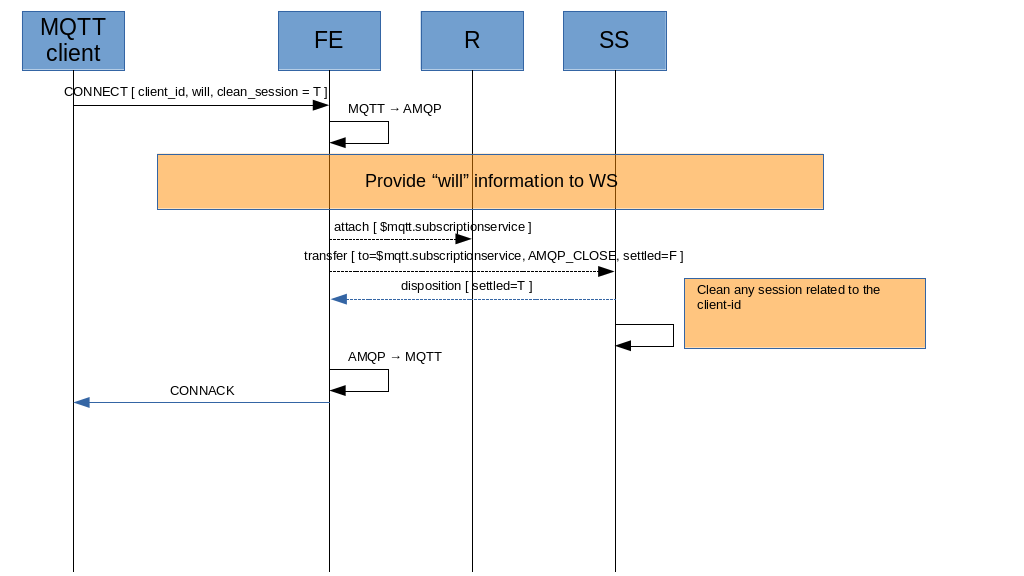
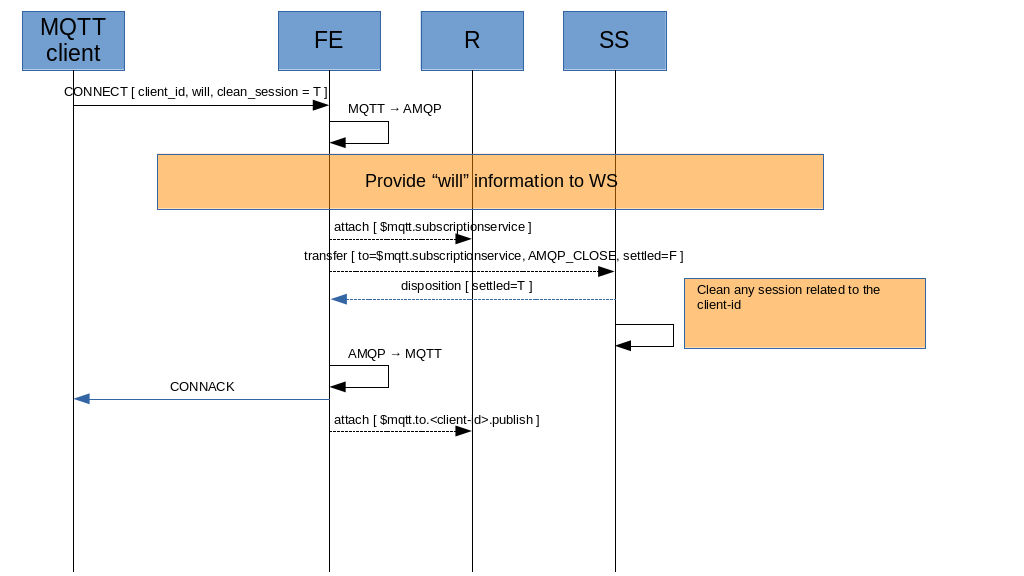
Modified spec with two different client unique addresses for receiving control messages (i.e. from SS) and published messages (i.e. through router from broker)

Changed region(s): [[0.0625, 0.6562, 0.3125, 0.7188], [0.3125, 0.7188, 0.5312, 0.75], [0.3125, 0.5938, 0.4375, 0.6875]]

diff --git a/mqtt-over-amqp/docs/operations_connection.md b/mqtt-over-amqp/docs/operations_connection.md
@@ -12,12 +12,20 @@ The FE needs to attach a link with sender role to the Subscription Service contr
 * rcv-settle-mode : first (0)
 * snd-settle-mode : unsettled (0)
 
-The FE needs to attach a link with receiver role to the unique client address $mqtt.to.[client-id]. It should have QoS as AT_LEAST_ONCE so with :
+The FE needs to attach a link with receiver role to the unique client control address $mqtt.to.[client-id].control. It should have QoS as AT_LEAST_ONCE so with :
+
+* rcv-settle-mode : first (0)
+* snd-settle-mode : unsettled (0)
+
+This address is useful for receiving control messages (i.e. from the Subscription Service).
+
+The FE needs to attach a link with receiver role to the unique client publish address $mqtt.to.[client-id].publish. It should have QoS as AT_LEAST_ONCE so with :
 
 * rcv-settle-mode : first (0)
 * snd-settle-mode : unsettled (0)
 
 or using "mixed" (2) for the "snd-settle-mode", in order to allow the sender on the other side to send messages both "settle" and "unsettled" on the same link.
+This address is used for receiving published messages.
 
 ## "Will" information to Will Service
 
@@ -62,8 +70,8 @@ If the "clean session" from _CONNECT_ packet is FALSE.
 | DATA | TYPE | VALUE | FROM |
 | ---- | ---- | ----- | ---- |
 | subject | system property | "list" | - |
-| correlation-id | system property | $mqtt.to.[client-id] | - |
-| reply-to | system property | $mqtt.to.[client-id] | - |
+| correlation-id | system property | $mqtt.to.[client-id].publish | - |
+| reply-to | system property | $mqtt.to.[client-id].control | - |
 
 The _AMQP_LIST_ is sent as "unsettled", in order to know that the Subscription Service has received it (with related disposition).
 The relation between the _AMQP_LIST_ message and the related client, at AMQP level, is inferred by the link name attached to the SS control address.
@@ -83,7 +91,7 @@ After sending the _AMQP_LIST_, the FE receives the following message as reply.
 
 The _AMQP_SUBSCRIPTIONS_ is sent as "unsettled", in order to know that the FE has received it (with related disposition).
 
-If a session is present and there are subscriptions for the client-id, the SS re-establishes the routes from each topic to the $mqtt.to.[client-id] automatically (see “Subscription/Unsubscription”). No need for the SS to send subscriptions list to the FE in order to re-subscribe.
+If a session is present and there are subscriptions for the client-id, the SS re-establishes the routes from each topic to the $mqtt.to.[client-id].publish automatically (see “Subscription/Unsubscription”). No need for the SS to send subscriptions list to the FE in order to re-subscribe.
 
 > the SS should send the _AMQP_SUBSCRIPTIONS_ message to FE before re-establishing routes for the topics because it should be first message received by FE (in order to build the _CONNACK_) if there are messages stored when the client was offline that will be puslished now on re-connect.
 
@@ -98,7 +106,7 @@ If the "clean session" from _CONNECT_ packet is TRUE.
 | DATA | TYPE | VALUE | FROM |
 | ---- | ---- | ----- | ---- |
 | subject | system property | "close" | - |
-| correlation-id | system property | $mqtt.to.[client-id] | - |
+| correlation-id | system property | $mqtt.to.[client-id].publish | - |
 
 ![Connect Subscription Service](../images/05_connect_ss_close.png)
 

diff --git a/mqtt-over-amqp/docs/operations_subscription_unsubscription.md b/mqtt-over-amqp/docs/operations_subscription_unsubscription.md
@@ -9,13 +9,13 @@ The FE needs an attached link with sender role to the Subscription Service contr
 
 The MQTT client sends a _SUBSCRIBE_ message to FE which maps the _SUBSCRIBE_ message to the following AMQP message.
 
-**AMQP_SUBSCRIBE** : sent to the SS in order to ask establishing a route between the topics and unique client address $mqtt.to.[client-id].
+**AMQP_SUBSCRIBE** : sent to the SS in order to ask establishing a route between the topics and unique client publish address $mqtt.to.[client-id].publish.
 
 | DATA | TYPE | VALUE | FROM |
 | ---- | ---- | ----- | ---- |
 | subject | system property | "subscribe" | - |
 | message-id | system property | MessageId | MQTT SUBSCRIBE |
-| correlation-id | system property | $mqtt.to.[client-id] | - |
+| correlation-id | system property | $mqtt.to.[client-id].publish | - |
 | payload | AMQP value | Map with topics (as key) and qos (as value) | MQTT SUSBCRIBE |
 
 > the payload is a map with topics used as key and the related qos as corresponding value
@@ -42,7 +42,7 @@ The FE could also receive the following _AMQP_PUBLISH_ message (as a retained me
 
 Starting from now, when subscribed/attached, the FE receives published messages on the unique client address :
 
-* $mqtt.to.[client-id]
+* $mqtt.to.[client-id].publish
 
 The AMQP message is used by FE for building the _PUBLISH_ message to send to the MQTT client (see “Publishing”).
 
@@ -52,13 +52,13 @@ The AMQP message is used by FE for building the _PUBLISH_ message to send to the
 
 The MQTT client sends an _UNSUBSCRIBE_ message to FE which maps to the following AMQP message.
 
-**AMQP_UNSUBSCRIBE** : sent to the SS in order to ask removing the established route between the topic and unique client address $mqtt.to.[client-id].
+**AMQP_UNSUBSCRIBE** : sent to the SS in order to ask removing the established route between the topic and unique client publish address $mqtt.to.[client-id].publish.
 
 | DATA | TYPE | VALUE | FROM |
 | ---- | ---- | ----- | ---- |
 | subject | system property | "unsubscribe" | - |
 | message-id | system property | MessageId | MQTT UNSUBSCRIBE |
-| correlation-id | system property | $mqtt.to.[client-id] | - |
+| correlation-id | system property | $mqtt.to.[client-id].publish | - |
 | payload | AMQP value | List of topics | MQTT UNSUBSCRIBE |
 
 The _AMQP_UNSUBSCRIBE_ is sent as "unsettled", in order to know that the Subscription Service has received it (with related disposition). When FE receives tha related disposition (with "settled") it builds the _UNSUBACK_ message for MQTT client.

diff --git a/mqtt-over-amqp/docs/services_subscription_service.md b/mqtt-over-amqp/docs/services_subscription_service.md
@@ -6,8 +6,9 @@ The Subscription Service (SS) has an AMQP receiver on the following control addr
 
 It's able to handle following scenarios :
 
-* on client connection receiving the “clean-session” information in order to handle session for the client. If needed, the SS checks if a session already exists for the client-id in terms of subscriptions and replies with a "session-present" flag.
-* receiving a request from a client for subscribing to a topic. The SS has to ensure a route from “topic” to the unique client address $mqtt.to.[client-id]. It's not in charge for delivering but only to ensure that a route is established.
+* on client connection (if clean session is FALSE) receiving the “list” message in order to handle session for the client. If needed, the SS checks if a session already exists for the client-id in terms of subscriptions and replies with topics list and related QoS levels.
+* on client connection (if clean session is TRUE) receiving the "close" message in order to clean every other previous session for the client-id.
+* receiving a request from a client for subscribing to a topic. The SS has to ensure a route from “topic” to the unique client publish address $mqtt.to.[client-id].publish. It's not in charge for delivering but only to ensure that a route is established.
 * receiving a request from a client for unsubscribing to a topic.
 * ensuring delivering of "lost" messages on subscribed topics when the client was offline.
 * ensuring delivering of retained message if it’s available for each subscribed “topic” when a new client subscribes to it.
@@ -17,6 +18,6 @@ Due to the nature of the MQTT _CONNECT_, _SUBSCRIBE_ and _UNSUBSCRIBE_ messages 
 * rcv-settle-mode : first (0)
 * snd-settle-mode : unsettled (0)
 
-The SS replies with the result of the connection (with "session-present" flag), subscription (with granted QoS levels) and unsubscription requests to the following client specific address :
+The SS replies with the result of the connection (with topics list and related QoS levels, if "list" is requested), subscription (with granted QoS levels) and unsubscription requests to the following client specific address :
 
-* $mqtt.to.[client-id]
+* $mqtt.to.[client-id].control

diff --git a/mqtt-over-amqp/docs/implementation_subscription_service.md b/mqtt-over-amqp/docs/implementation_subscription_service.md
@@ -2,17 +2,17 @@
 
 It could be based on the same service as in EnMasse project using brokers and durable subscription on topics.
 
-On connection, the client with “clean session = false” want to know if a session is already present (MQTT spec). The SS can check if durable subscriptions already exist for that client (based on subscription name with client id). If a session is available the SS should recover the routes from subscriptions to the direct unique client address $mqtt.to.[client-id] so that “offline” messages are sent to the client.
+On connection, the client with “clean session = false” want to know if a session is already present (MQTT spec). The SS can check if durable subscriptions already exist for that client (based on subscription name with client id). If a session is available the SS should recover the routes from subscriptions to the direct unique client publish address $mqtt.to.[client-id].publish so that “offline” messages are sent to the client.
 
 When a message is published with a “retain” flag (related property in the related AMQP message), the SS could configure a forwarding of the message from the “topic” to a queue like $retain.[topic] which will store the retained message.
 
 On subscription, the client provides to the SS the following information :
 
-* its direct unique address, $mqtt.to.[client-id]
+* its direct unique address for receiving published messages, $mqtt.to.[client-id].publish
 * the topic it wants to subscribe to
 
 Then the SS :
 
-* it creates a subscription queue (i.e. named $mqtt.to.[client-id])
+* it creates a subscription queue (i.e. named $mqtt.to.[client-id].publish)
 * an available retained message is copied to this queue (from the corresponding $retain.[topic] queue) and it is received as first message by the client.
 * it binds the subscription queue to the requested topic so that the client starts to receive all messages published to that topic.

diff --git a/mqtt-over-amqp/docs/operations_disconnection.md b/mqtt-over-amqp/docs/operations_disconnection.md
@@ -16,7 +16,7 @@ Regarding the “will” publishing on disconnection, the two following scenario
 * on clean disconnection by MQTT client, the FE detaches the permanent link to the WS (on $mqtt.willservice address) with no “error” condition. In this way the WS knows that “will” information for that link-name (so related client-id) needs to be cleaned but no “will” publishing happens.
 * on brute disconnection by MQTT, client, the FE detaches the permanent link to the WS (on $mqtt.willservice address) with an “error” condition. In this way the WS knows that before cleaning the “will” information for that link-name (so related client-id), it needs to start publishing the “will” message.
 
-![Disconnect](../images/05_disconnect.png)
+![Disconnect](../images/06_disconnect.png)
 
 ![Brute Disconnect](../images/07_brute_disconnection.png)
 

diff --git a/mqtt-over-amqp/docs/operations_publish.md b/mqtt-over-amqp/docs/operations_publish.md
@@ -60,7 +60,7 @@ A timeout could be used to detect links inactivity for detaching them.
 
 ## From AMQP network to MQTT client
 
-The FE has an attached link with receiver role to the unique client address $mqtt.to.[client-id] where all published messages are conveyed (see "Connection"). This link has QoS as AT_LEAST_ONCE so in all cases, the messages received from the AMQP network is "unsettled" (even for QoS level 0).
+The FE has an attached link with receiver role to the unique client publish address $mqtt.to.[client-id].publish where all published messages are conveyed (see "Connection"). This link has QoS as AT_LEAST_ONCE so in all cases, the messages received from the AMQP network is "unsettled" (even for QoS level 0).
 
 The FE receives published messages as _AMQP_PUBLISH_ messages (see previous paragraph).
 

diff --git a/mqtt-over-amqp/docs/components.md b/mqtt-over-amqp/docs/components.md
@@ -14,6 +14,6 @@ Every single service can be implemented as stand-alone software component or we 
 
 ![Overall](../images/01_overall.png)
 
-Following the main connections established by the services for providing their "control" addresses.
+Following the main connections established by the services for providing their "control" addresses and connections established for every MQTT client.
 
 ![Connections](../images/02_connections.png)
